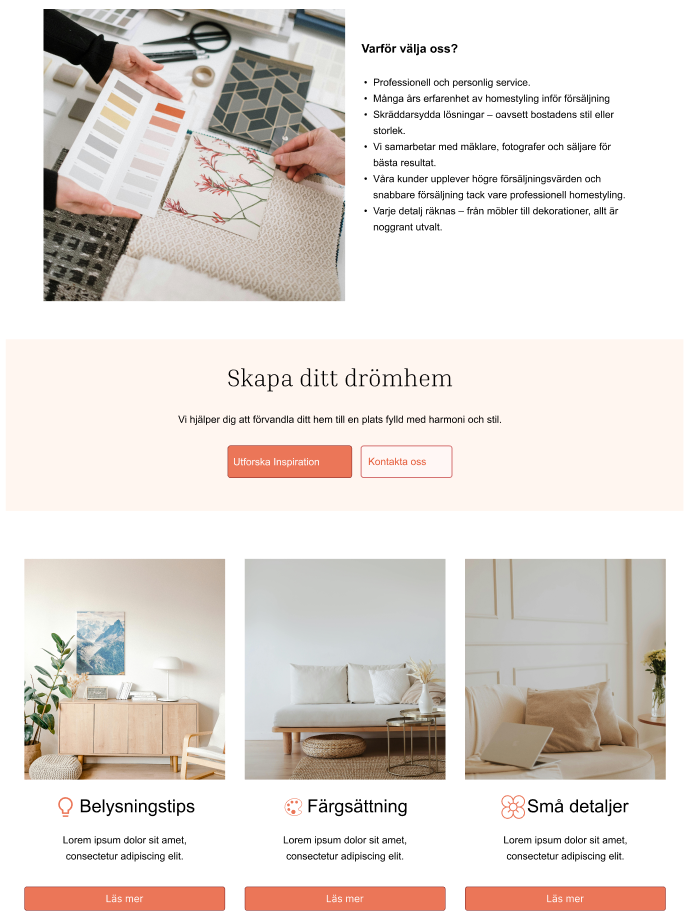
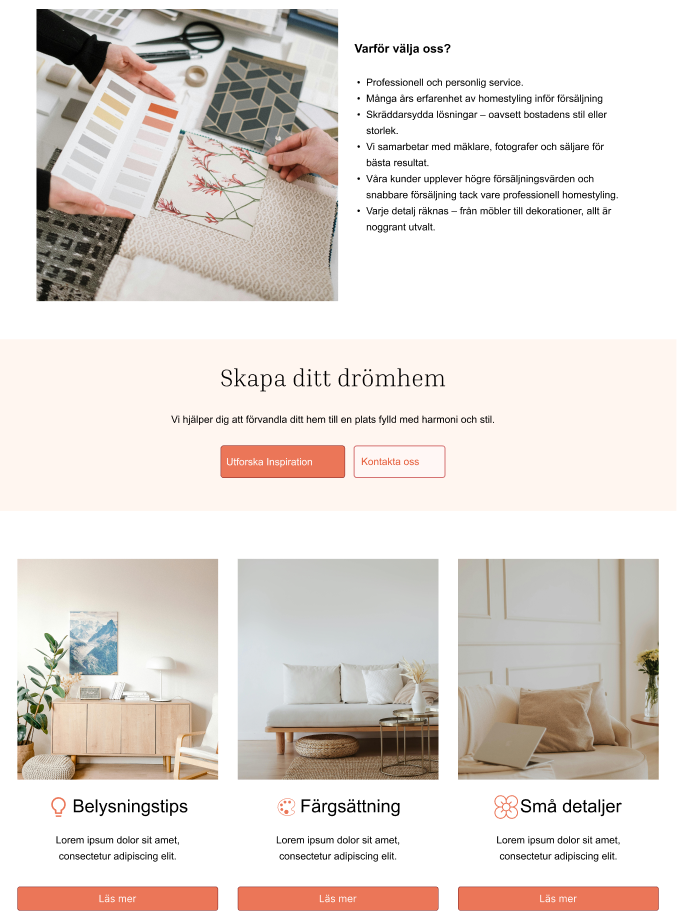
update

diff --git a/style.css b/style.css
@@ -303,12 +303,18 @@
   .hidden {
     display: none;
   }
+  .table {
+    display: table;
+  }
   .aspect-\[3\/2\] {
     aspect-ratio: 3/2;
   }
   .size-6 {
     width: calc(var(--spacing) * 6);
     height: calc(var(--spacing) * 6);
+  }
+  .h-0 {
+    height: calc(var(--spacing) * 0);
   }
   .h-0\.5 {
     height: calc(var(--spacing) * 0.5);
@@ -367,17 +373,26 @@
   .max-w-xs {
     max-width: var(--container-xs);
   }
+  .border-collapse {
+    border-collapse: collapse;
+  }
   .transform {
     transform: var(--tw-rotate-x,) var(--tw-rotate-y,) var(--tw-rotate-z,) var(--tw-skew-x,) var(--tw-skew-y,);
   }
   .cursor-pointer {
     cursor: pointer;
   }
+  .resize {
+    resize: both;
+  }
   .grid-cols-1 {
     grid-template-columns: repeat(1, minmax(0, 1fr));
   }
   .flex-col {
     flex-direction: column;
+  }
+  .flex-wrap {
+    flex-wrap: wrap;
   }
   .items-center {
     align-items: center;
@@ -438,6 +453,9 @@
   .border-\[\#ddcfc5\] {
     border-color: #ddcfc5;
   }
+  .border-white {
+    border-color: var(--color-white);
+  }
   .border-white\/20 {
     border-color: color-mix(in srgb, #fff 20%, transparent);
     @supports (color: color-mix(in lab, red, red)) {
@@ -476,6 +494,9 @@
   }
   .bg-\[\#e4d3cf\] {
     background-color: #e4d3cf;
+  }
+  .bg-white {
+    background-color: var(--color-white);
   }
   .bg-white\/20 {
     background-color: color-mix(in srgb, #fff 20%, transparent);
@@ -641,8 +662,19 @@
   .uppercase {
     text-transform: uppercase;
   }
+  .underline {
+    text-decoration-line: underline;
+  }
+  .outline {
+    outline-style: var(--tw-outline-style);
+    outline-width: 1px;
+  }
   .backdrop-blur-md {
     --tw-backdrop-blur: blur(var(--blur-md));
+    -webkit-backdrop-filter: var(--tw-backdrop-blur,) var(--tw-backdrop-brightness,) var(--tw-backdrop-contrast,) var(--tw-backdrop-grayscale,) var(--tw-backdrop-hue-rotate,) var(--tw-backdrop-invert,) var(--tw-backdrop-opacity,) var(--tw-backdrop-saturate,) var(--tw-backdrop-sepia,);
+    backdrop-filter: var(--tw-backdrop-blur,) var(--tw-backdrop-brightness,) var(--tw-backdrop-contrast,) var(--tw-backdrop-grayscale,) var(--tw-backdrop-hue-rotate,) var(--tw-backdrop-invert,) var(--tw-backdrop-opacity,) var(--tw-backdrop-saturate,) var(--tw-backdrop-sepia,);
+  }
+  .backdrop-filter {
     -webkit-backdrop-filter: var(--tw-backdrop-blur,) var(--tw-backdrop-brightness,) var(--tw-backdrop-contrast,) var(--tw-backdrop-grayscale,) var(--tw-backdrop-hue-rotate,) var(--tw-backdrop-invert,) var(--tw-backdrop-opacity,) var(--tw-backdrop-saturate,) var(--tw-backdrop-sepia,);
     backdrop-filter: var(--tw-backdrop-blur,) var(--tw-backdrop-brightness,) var(--tw-backdrop-contrast,) var(--tw-backdrop-grayscale,) var(--tw-backdrop-hue-rotate,) var(--tw-backdrop-invert,) var(--tw-backdrop-opacity,) var(--tw-backdrop-saturate,) var(--tw-backdrop-sepia,);
   }
@@ -881,6 +913,11 @@
   .md\:max-w-2xl {
     @media (width >= 48rem) {
       max-width: var(--container-2xl);
+    }
+  }
+  .md\:max-w-3xl {
+    @media (width >= 48rem) {
+      max-width: var(--container-3xl);
     }
   }
   .md\:max-w-4xl {
@@ -1225,6 +1262,11 @@
   syntax: "*";
   inherits: false;
 }
+@property --tw-outline-style {
+  syntax: "*";
+  inherits: false;
+  initial-value: solid;
+}
 @property --tw-backdrop-blur {
   syntax: "*";
   inherits: false;
@@ -1357,6 +1399,7 @@
       --tw-border-style: solid;
       --tw-font-weight: initial;
       --tw-tracking: initial;
+      --tw-outline-style: solid;
       --tw-backdrop-blur: initial;
       --tw-backdrop-brightness: initial;
       --tw-backdrop-contrast: initial;

diff --git a/projects.html b/projects.html
@@ -117,7 +117,7 @@
      </section>
    <!-- Footer -->
       <section class="border border-[#D6CFC7] mt-32">
-      <div class="max-w-2xl lg:max-w-4xl mx-auto flex flex-col md:flex-row items-center justify-between py-">
+      <div class="md:max-w-3xl lg:max-w-4xl mx-auto flex flex-col md:flex-row items-center justify-between py-">
         
         <div class="flex flex-col items-center text-center max-w-xs">
         <!-- Profile picture & description -->

diff --git a/portfolio.html b/portfolio.html
@@ -58,7 +58,7 @@
     </section>
      <!-- Footer -->
       <section class="border border-[#D6CFC7] mt-32">
-      <div class="max-w-2xl lg:max-w-4xl mx-auto flex flex-col md:flex-row items-center justify-between py-">
+      <div class="md:max-w-3xl lg:max-w-4xl mx-auto flex flex-col md:flex-row items-center justify-between py-">
         
         <div class="flex flex-col items-center text-center max-w-xs">
         <!-- Profile picture & description -->

diff --git a/ardesign.html b/ardesign.html
@@ -59,7 +59,7 @@
    
          <!-- Footer -->
       <section class="border border-[#505853] mt-32">
-      <div class="max-w-2xl lg:max-w-4xl mx-auto flex flex-col md:flex-row items-center justify-between ">
+      <div class="md:max-w-3xl lg:max-w-4xl mx-auto flex flex-col md:flex-row items-center justify-between ">
         
         <div class="flex flex-col items-center text-center max-w-xs">
           <!-- Profile picture & description -->

diff --git a/heminredarna.html b/heminredarna.html
@@ -59,7 +59,7 @@
 
      <!-- Footer -->
       <section class="border border-[#D6CFC7] mt-32">
-      <div class="max-w-2xl lg:max-w-4xl mx-auto flex flex-col md:flex-row items-center justify-between">
+      <div class="md:max-w-3xl lg:max-w-4xl mx-auto flex flex-col md:flex-row items-center justify-between">
         
         <div class="flex flex-col items-center text-center max-w-xs">
           <!-- Profile picture & description -->

diff --git a/index.html b/index.html
@@ -229,7 +229,7 @@
 
      <!-- Footer -->
       <section class="border border-[#D6CFC7] mt-32">
-      <div class="max-w-2xl lg:max-w-4xl mx-auto flex flex-col md:flex-row items-center justify-between">
+      <div class="md:max-w-3xl lg:max-w-4xl mx-auto flex flex-col md:flex-row items-center justify-between">
         
         <div class="flex flex-col items-center text-center max-w-xs">
         <!-- Profile picture & description -->

diff --git a/fjallochfika.html b/fjallochfika.html
@@ -59,7 +59,7 @@
 
    <!-- Footer -->
       <section class="border border-[#a3b3a5] mt-32">
-      <div class="max-w-2xl lg:max-w-4xl mx-auto flex flex-col md:flex-row items-center justify-between">
+      <div class="md:max-w-3xl lg:max-w-4xl mx-auto flex flex-col md:flex-row items-center justify-between">
       
         <div class="flex flex-col items-center text-center max-w-xs">
           <!-- Profile picture & description -->
